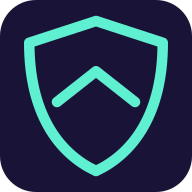
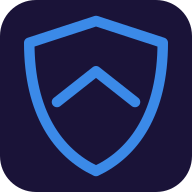
Draw the crest in the cube's blue, and fit the page in a window
The mark takes #3b8ae8, the light blue the HouseAccount cube is stroked in, so
the gem's shield and the company's cube read as the same hand. Every icon is
re-rendered from icon.svg by build-icons.sh rather than touched one at a time.

The mint sat at roughly 11:1 against the violet tile and the blue sits at 5:1,
which is dimmer but well clear of the 3:1 a graphical object needs, and the
shield and its chevron still separate at 16 pixels -- checked at that size
rather than assumed from the 512.

The page now stands at 770px at 1280x800, from 1043, so the whole of it is
visible without scrolling. Rhythm rather than content: the sheet sits closer to
the window, the hero and the gaps between blocks are tighter, the snippets have
less air inside and between them, and the card's photo and rows are closer. The
column still stacks and scrolls at 400px, where the height is nobody's to
choose.

Changed region(s): [[0.125, 0.0625, 0.875, 0.9375]]

diff --git a/index.html b/index.html
@@ -56,10 +56,10 @@ answers with the contact card a phone offers to save.">
     code { font-family: var(--mono); font-size: 0.92em }
     .quiet { color: var(--dim) }
     .file { font-family: var(--mono); font-size: 12px; letter-spacing: 0.02em;
-            color: var(--gold); display: block; margin: 0 0 9px }
+            color: var(--gold); display: block; margin: 0 0 7px }
     .plain { font-size: 12.5px; letter-spacing: 0.04em; color: var(--dim) }
 
-    .sheet { max-width: 1040px; margin: clamp(18px, 4vw, 54px) auto; background: var(--panel);
+    .sheet { max-width: 1040px; margin: clamp(12px, 1.4vw, 18px) auto; background: var(--panel);
              border: 1px solid var(--gold-dim); border-radius: 6px;
              box-shadow: 0 40px 90px -40px rgba(0, 0, 0, 0.9) }
     .band { height: 9px; background:
@@ -70,45 +70,45 @@ answers with the contact card a phone offers to save.">
     .band.bottom { border-radius: 0 0 5px 5px }
     .pad { padding-left: clamp(22px, 4vw, 56px); padding-right: clamp(22px, 4vw, 56px) }
 
-    .top { padding-top: 22px; padding-bottom: 22px; display: flex; gap: 20px;
+    .top { padding-top: 14px; padding-bottom: 14px; display: flex; gap: 20px;
            justify-content: space-between; align-items: center;
            border-bottom: 1px solid var(--gold-dim) }
     .wordmark { display: flex; align-items: center; gap: 11px }
     .wordmark span { font-family: var(--head); font-size: 21px; letter-spacing: 0.01em }
 
-    h1 { font-size: clamp(34px, 4.4vw, 60px); line-height: 1.06; margin: 0 0 20px }
-    .lede { font-size: clamp(16px, 1.15vw, 19px); line-height: 1.62; margin: 0; max-width: 40em }
+    h1 { font-size: clamp(31px, 3.4vw, 43px); line-height: 1.05; margin: 0 0 12px }
+    .lede { font-size: clamp(15.5px, 1.1vw, 18px); line-height: 1.55; margin: 0; max-width: 44em }
 
     .work { display: grid; grid-template-columns: minmax(0, 1fr) 296px;
-            gap: clamp(30px, 4vw, 62px); align-items: start; margin-top: clamp(38px, 5vw, 58px) }
+            gap: clamp(26px, 4vw, 56px); align-items: start; margin-top: clamp(22px, 2.2vw, 26px) }
     @media (max-width: 880px) { .work { grid-template-columns: minmax(0, 1fr) } }
 
     pre { background: var(--sunk); border: 1px solid var(--gold-dim); border-radius: 5px;
-          padding: 15px 17px; overflow-x: auto; font-size: 13.5px; line-height: 1.7;
-          font-family: var(--mono); margin: 0 0 26px; color: var(--cream) }
+          padding: 12px 16px; overflow-x: auto; font-size: 13.5px; line-height: 1.55;
+          font-family: var(--mono); margin: 0 0 13px; color: var(--cream) }
     pre .k { color: var(--gold) } pre .s { color: #8fc7a0 } pre .c { color: var(--dim) }
     .after { margin: -16px 0 26px; font-size: 13.5px; line-height: 1.6 }
 
     /* the card the page hands out, drawn as a phone would draw it once it is saved */
     .vcard { display: block; border: 1px solid var(--gold-dim); border-radius: 8px;
-             background: var(--sunk); padding: 22px 20px 20px; text-align: center;
+             background: var(--sunk); padding: 18px 20px 17px; text-align: center;
              color: var(--cream); transition: border-color 0.2s ease, transform 0.2s ease }
     .vcard:hover { border-color: var(--gold); transform: translateY(-2px); color: var(--cream) }
-    .vcard img { width: 82px; height: 82px; display: block; margin: 0 auto 13px }
+    .vcard img { width: 66px; height: 66px; display: block; margin: 0 auto 10px }
     .vcard b { display: block; font-family: var(--head); font-weight: 600; font-size: 21px }
     .vcard .org { display: block; font-size: 12.5px; color: var(--dim); margin-top: 3px }
-    .vcard dl { margin: 17px 0 0; padding: 15px 0 0; border-top: 1px solid var(--gold-dim);
+    .vcard dl { margin: 13px 0 0; padding: 12px 0 0; border-top: 1px solid var(--gold-dim);
                 text-align: left; font-size: 12.5px; line-height: 1.5 }
     .vcard dt { color: var(--dim); font-size: 10.5px; letter-spacing: 0.14em;
                 text-transform: uppercase }
-    .vcard dd { margin: 1px 0 11px; font-family: var(--mono); font-size: 12px;
+    .vcard dd { margin: 1px 0 7px; font-family: var(--mono); font-size: 12px;
                 overflow-wrap: anywhere }
     .vcard dd:last-child { margin-bottom: 0 }
-    .vcard .cta { display: block; margin-top: 17px; padding: 9px; border-radius: 4px;
+    .vcard .cta { display: block; margin-top: 14px; padding: 8px; border-radius: 4px;
                   background: var(--gold); color: var(--ink); font-weight: 500; font-size: 13.5px }
-    .note { font-size: 12.5px; line-height: 1.55; color: var(--dim); margin: 12px 2px 0 }
+    .note { font-size: 12.5px; line-height: 1.5; color: var(--dim); margin: 9px 2px 0 }
 
-    .foot { padding-top: 20px; padding-bottom: 20px; border-top: 1px solid var(--gold-dim);
+    .foot { padding-top: 12px; padding-bottom: 12px; border-top: 1px solid var(--gold-dim);
             display: flex; justify-content: space-between; align-items: center;
             flex-wrap: wrap; gap: 12px }
 
@@ -137,7 +137,7 @@ answers with the contact card a phone offers to save.">
     </span>
   </div>
 
-  <div class="pad" style="padding-top: clamp(40px, 6vh, 76px); padding-bottom: clamp(40px, 6vh, 70px)">
+  <div class="pad" style="padding-top: clamp(24px, 2.8vh, 32px); padding-bottom: clamp(22px, 2.4vh, 24px)">
     <h1>Give your Rails app a vCard</h1>
     <p class="lede quiet">Crest answers <code>GET /houseaccount.vcf</code> with a contact card. A
       phone offers to save it, and your next text arrives under a name instead of ten digits.</p>
